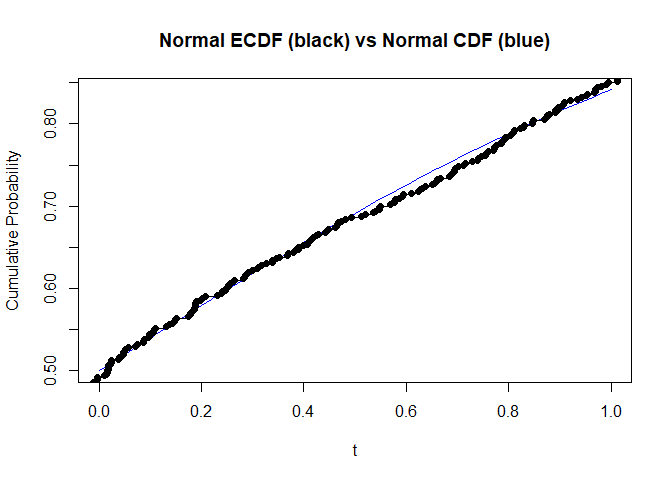
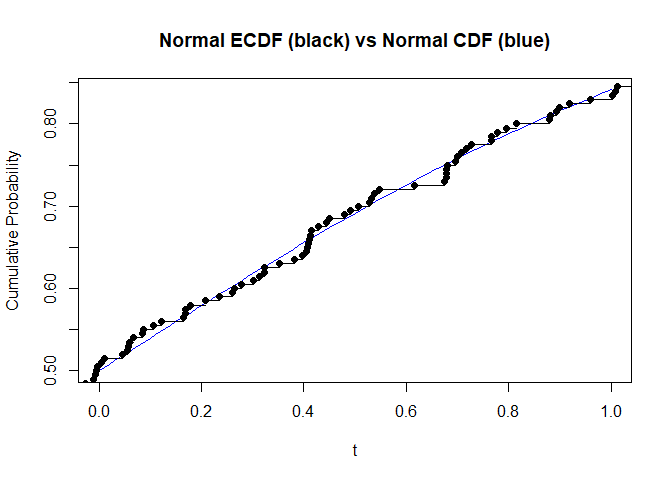
edit readme

Changed region(s): [[0.125, 0.375, 0.6562, 0.8125], [0.6562, 0.2188, 0.8438, 0.375], [0.8438, 0.1562, 0.9375, 0.2188]]

diff --git a/README.md b/README.md
@@ -31,7 +31,7 @@ Simulations presented by Dan Uehara for UseR Oslo:
 library(simboil)
 coinflips <- simtest()
 mean(coinflips)
-#> [1] 0.99
+#> [1] 0.98
 ```
 
 ## Use simulation to get quantiles
@@ -60,25 +60,25 @@ getqs <- simq(frame = sim_scores, ref_samp = practice_test,
 #Get requested quantiles (example uses defaults of lowp = .025, highp = .975)
 getqs$quantiles
 #>     2.5%    97.5% 
-#> 70.26642 80.32371
+#> 70.37517 80.40910
 
 #Compare practice test to distribution of past tests
 getqs$histogram
 #> $breaks
-#>  [1] 65 66 67 68 69 70 71 72 73 74 75 76 77 78 79 80 81 82 83 84 85 86
+#>  [1] 65 66 67 68 69 70 71 72 73 74 75 76 77 78 79 80 81 82 83 84 85 86 87
 #> 
 #> $counts
-#>  [1]    1    7    8   48  127  303  568  929 1237 1489 1560 1317 1014  684  383
-#> [16]  205   83   26    7    2    2
+#>  [1]    4    3   19   53  113  249  502  863 1171 1514 1565 1360 1096  709  416
+#> [16]  228   89   33    8    3    1    1
 #> 
 #> $density
-#>  [1] 0.0001 0.0007 0.0008 0.0048 0.0127 0.0303 0.0568 0.0929 0.1237 0.1489
-#> [11] 0.1560 0.1317 0.1014 0.0684 0.0383 0.0205 0.0083 0.0026 0.0007 0.0002
-#> [21] 0.0002
+#>  [1] 0.0004 0.0003 0.0019 0.0053 0.0113 0.0249 0.0502 0.0863 0.1171 0.1514
+#> [11] 0.1565 0.1360 0.1096 0.0709 0.0416 0.0228 0.0089 0.0033 0.0008 0.0003
+#> [21] 0.0001 0.0001
 #> 
 #> $mids
 #>  [1] 65.5 66.5 67.5 68.5 69.5 70.5 71.5 72.5 73.5 74.5 75.5 76.5 77.5 78.5 79.5
-#> [16] 80.5 81.5 82.5 83.5 84.5 85.5
+#> [16] 80.5 81.5 82.5 83.5 84.5 85.5 86.5
 #> 
 #> $xname
 #> [1] "samps"
@@ -112,7 +112,7 @@ You can also change from the uniform distribution to other distributions
 such as the normal distribution by using anonymous functions
 
 ``` r
-evt_cdf(n = 500, ylab = "Cumulative Probability", col = "blue", main = "Normal ECDF (black) vs Normal CDF (blue)",
+evt_cdf(n = 200, ylab = "Cumulative Probability", col = "blue", main = "Normal ECDF (black) vs Normal CDF (blue)",
         remp = function(x)stats::rnorm(x),
         ptrue = function(x)stats::pnorm(x))
 ```
